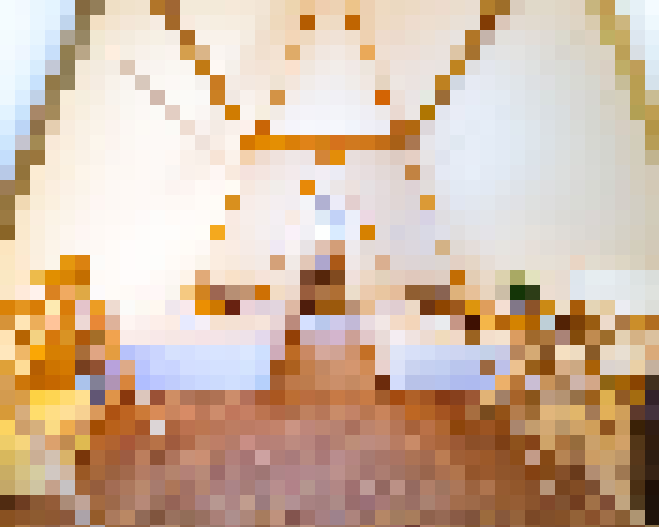
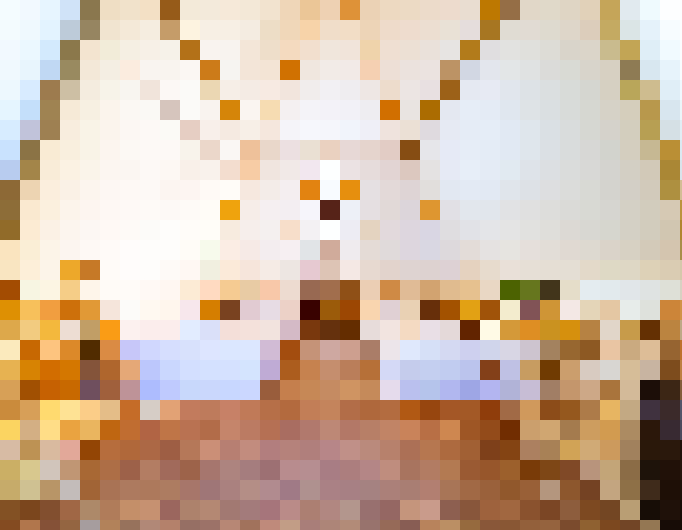
chore: changed images to be more pixelated

diff --git a/src/images.ts b/src/images.ts
@@ -1,3 +1,1 @@
 export const images = ["tienda_dentro", "tienda_dentro-2", "tienda"];
-
-//TODO: Cambiar tienda_dentro-2, ya que se ve muy facilmente
